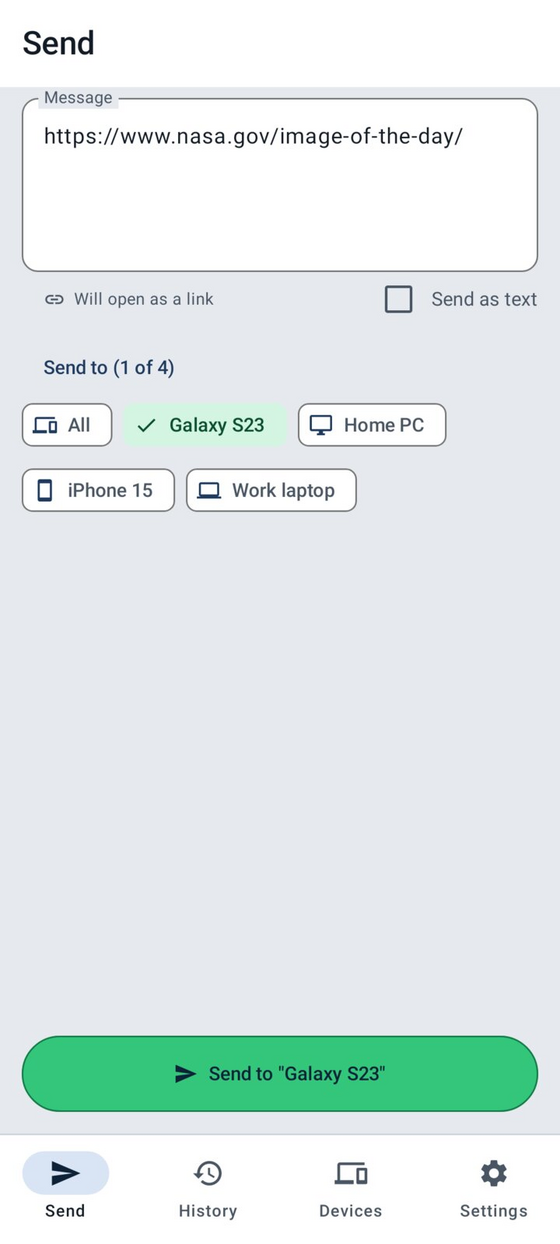
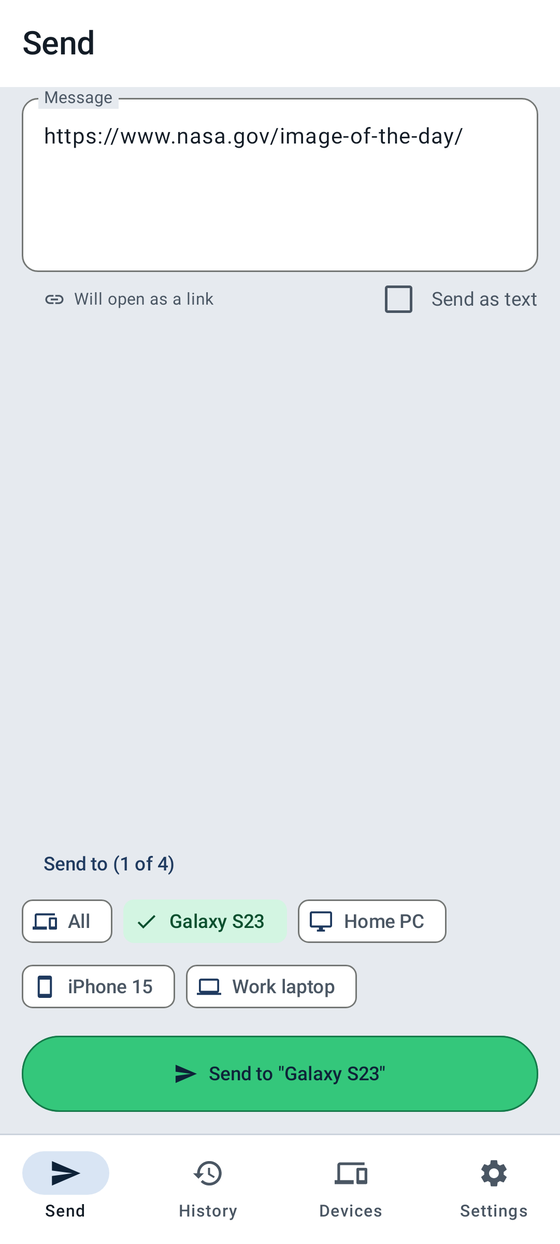
android: Send device chips sit at the bottom, just above the Send button, like iOS
The field and its caption row take the free space, so the empty space
sits between the message and the chips. Keyboard, scroll, and dialog
behavior are unchanged. About page Android Send screenshot updated.

diff --git a/client/android/app/src/main/kotlin/com/pusharmor/app/ui/MainScreens.kt b/client/android/app/src/main/kotlin/com/pusharmor/app/ui/MainScreens.kt
@@ -672,7 +672,7 @@ fun SwitchRow(text: String, checked: Boolean, enabled: Boolean = true, sub: Stri
 
 private val Modifier.rowPad get() = this.padding(horizontal = 16.dp)
 
-/** Send: field, type caption and counter, "Send as text", device chips, green Send pinned at the bottom (above the keyboard). */
+/** Send: field, type caption and counter, "Send as text", then the device chips just above the green Send pinned at the bottom (above the keyboard). */
 @OptIn(ExperimentalLayoutApi::class)
 @Composable
 fun SendScreen(vm: AppViewModel, initial: String = "", preselect: String? = null, title: String? = null, inDialog: Boolean = false, onPair: () -> Unit = {}, onSent: (AppViewModel.SendResult) -> Unit = {}) {
@@ -742,36 +742,39 @@ fun SendScreen(vm: AppViewModel, initial: String = "", preselect: String? = null
             // Chips and Send keep their space, and the field gets what is left; when that is too little, the page scrolls.
             Column(Modifier.weight(1f, fill = !inDialog).fillMaxWidth().onSizeChanged { areaPx = it.height }
                 .then(if (scrolls) Modifier.verticalScroll(rememberScrollState()) else Modifier)) {
-                // The field starts at 4 lines and grows with its text up to the free space, then scrolls inside;
-                // with the keyboard up it shrinks first, to 2 lines while the chips still fit.
-                OutlinedTextField(text, { text = it }, modifier = Modifier.rowPad.fillMaxWidth().then(if (scrolls) Modifier else Modifier.weight(1f, fill = false))
-                    .padding(top = if (title == null) 16.dp else 0.dp), minLines = 4, label = { Text("Message") },
-                    shape = RoundedCornerShape(12.dp),
-                    colors = OutlinedTextFieldDefaults.colors(focusedContainerColor = ex.tile, unfocusedContainerColor = ex.tile,
-                        focusedBorderColor = cs.primary, unfocusedBorderColor = cs.outline))
-                val counter = UiText.showCounter(bytes)
-                if (extras) Column(Modifier.onSizeChanged { extrasPx = it.height }) {
-                    val box = detected != ContentType.TEXT
-                    if (text.isNotEmpty() || counter || box) {
-                        // One row: the caption and counter at the left, "Send as text" at the far right (I617).
-                        Row(Modifier.padding(start = 32.dp, end = if (box) 16.dp else 32.dp, top = if (box) 0.dp else 6.dp).fillMaxWidth(),
-                            horizontalArrangement = Arrangement.SpaceBetween, verticalAlignment = Alignment.CenterVertically) {
-                            Row(Modifier.weight(1f), horizontalArrangement = Arrangement.spacedBy(12.dp), verticalAlignment = Alignment.CenterVertically) {
-                                if (text.isNotEmpty()) TypeCaption(type)
-                                if (counter) Text(UiText.counter(bytes), style = MaterialTheme.typography.bodySmall, color = cs.error)
-                            }
-                            if (box) Row(Modifier.heightIn(min = 40.dp).toggleable(asText, role = Role.Checkbox) { asText = it },
-                                verticalAlignment = Alignment.CenterVertically) {
-                                Checkbox(asText, null)
-                                Spacer(Modifier.width(12.dp))
-                                Text("Send as text", style = MaterialTheme.typography.bodyMedium, color = cs.onSurfaceVariant)
+                // The field and its caption row take the free space, so the chips sit at the bottom, just above Send.
+                Column(if (scrolls) Modifier else Modifier.weight(1f, fill = !inDialog)) {
+                    // The field starts at 4 lines and grows with its text up to the free space, then scrolls inside;
+                    // with the keyboard up it shrinks first, to 2 lines while the chips still fit.
+                    OutlinedTextField(text, { text = it }, modifier = Modifier.rowPad.fillMaxWidth().then(if (scrolls) Modifier else Modifier.weight(1f, fill = false))
+                        .padding(top = if (title == null) 16.dp else 0.dp), minLines = 4, label = { Text("Message") },
+                        shape = RoundedCornerShape(12.dp),
+                        colors = OutlinedTextFieldDefaults.colors(focusedContainerColor = ex.tile, unfocusedContainerColor = ex.tile,
+                            focusedBorderColor = cs.primary, unfocusedBorderColor = cs.outline))
+                    val counter = UiText.showCounter(bytes)
+                    if (extras) Column(Modifier.onSizeChanged { extrasPx = it.height }) {
+                        val box = detected != ContentType.TEXT
+                        if (text.isNotEmpty() || counter || box) {
+                            // One row: the caption and counter at the left, "Send as text" at the far right (I617).
+                            Row(Modifier.padding(start = 32.dp, end = if (box) 16.dp else 32.dp, top = if (box) 0.dp else 6.dp).fillMaxWidth(),
+                                horizontalArrangement = Arrangement.SpaceBetween, verticalAlignment = Alignment.CenterVertically) {
+                                Row(Modifier.weight(1f), horizontalArrangement = Arrangement.spacedBy(12.dp), verticalAlignment = Alignment.CenterVertically) {
+                                    if (text.isNotEmpty()) TypeCaption(type)
+                                    if (counter) Text(UiText.counter(bytes), style = MaterialTheme.typography.bodySmall, color = cs.error)
+                                }
+                                if (box) Row(Modifier.heightIn(min = 40.dp).toggleable(asText, role = Role.Checkbox) { asText = it },
+                                    verticalAlignment = Alignment.CenterVertically) {
+                                    Checkbox(asText, null)
+                                    Spacer(Modifier.width(12.dp))
+                                    Text("Send as text", style = MaterialTheme.typography.bodyMedium, color = cs.onSurfaceVariant)
+                                }
                             }
                         }
+                    } else if (counter) {
+                        // The counter does not give way: with the keyboard up it still says why Send is greyed.
+                        Text(UiText.counter(bytes), Modifier.padding(start = 32.dp, end = 32.dp, top = 6.dp).fillMaxWidth(),
+                            style = MaterialTheme.typography.bodySmall, color = cs.error, textAlign = TextAlign.End)
                     }
-                } else if (counter) {
-                    // The counter does not give way: with the keyboard up it still says why Send is greyed.
-                    Text(UiText.counter(bytes), Modifier.padding(start = 32.dp, end = 32.dp, top = 6.dp).fillMaxWidth(),
-                        style = MaterialTheme.typography.bodySmall, color = cs.error, textAlign = TextAlign.End)
                 }
                 val chips = UiText.sortedByName(others(peers, me?.id).filter { it.pinned && !it.hidden }, ::label)
                 if (UiText.noDevicesShown(me != null, chips.size)) Column(Modifier.onSizeChanged { chipsPx = it.height }.rowPad.padding(top = 16.dp).fillMaxWidth()) {

diff --git a/client/android/app/src/test/kotlin/com/pusharmor/app/AppLogicTest.kt b/client/android/app/src/test/kotlin/com/pusharmor/app/AppLogicTest.kt
@@ -313,6 +313,17 @@ class AppLogicTest {
         assertTrue(screen in 0 until button && sends[0] > button && sends[0] < main.indexOf("text = UiText.sendLabel", button))
     }
 
+    @Test fun sendChipsSitAtTheBottomJustAboveSend() {
+        // As on iOS, the free space goes under the field and its caption row, so the chips sit just above Send.
+        val main = source("ui/MainScreens.kt")
+        val screen = main.substring(main.indexOf("fun SendScreen("), main.indexOf("private fun TypeCaption("))
+        val top = screen.indexOf("Column(if (scrolls) Modifier else Modifier.weight(1f, fill = !inDialog)) {")
+        val field = screen.indexOf("OutlinedTextField(text")
+        val chips = screen.indexOf("val chips = UiText.sortedByName")
+        val send = screen.indexOf("GreenButton(onClick")
+        assertTrue(top in 0 until field && field < chips && chips < send)
+    }
+
     @Test fun lastSendSelectionNeverBlocksTheMainThread() {
         // The Send screen reads and saves its last selection on the main thread: only suspending DataStore calls (I434).
         for (name in listOf("lastSendTo", "saveSendTo")) {
